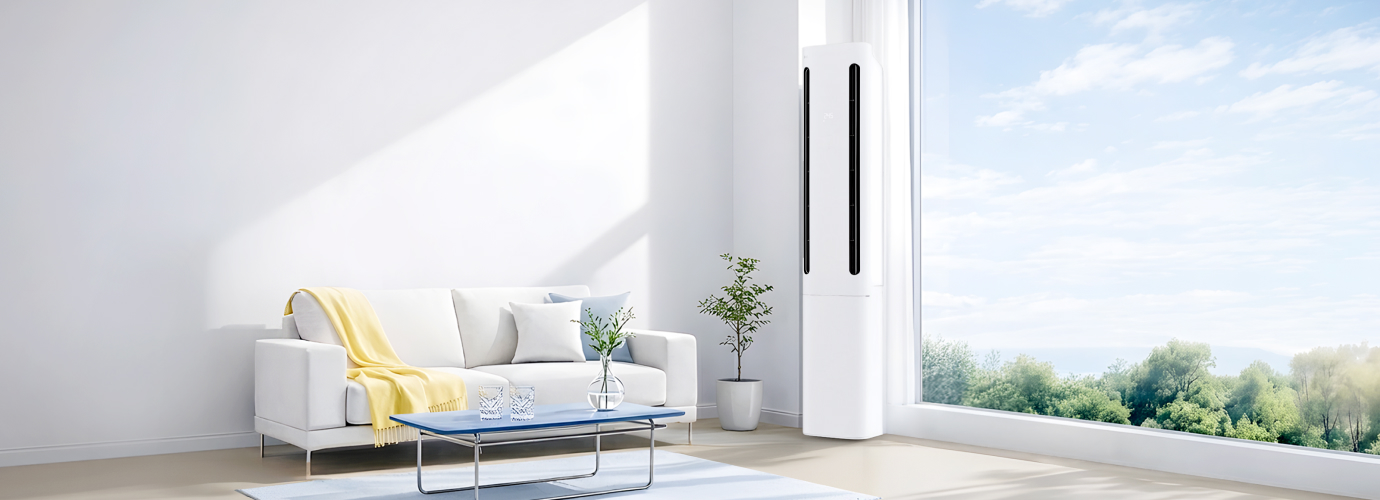
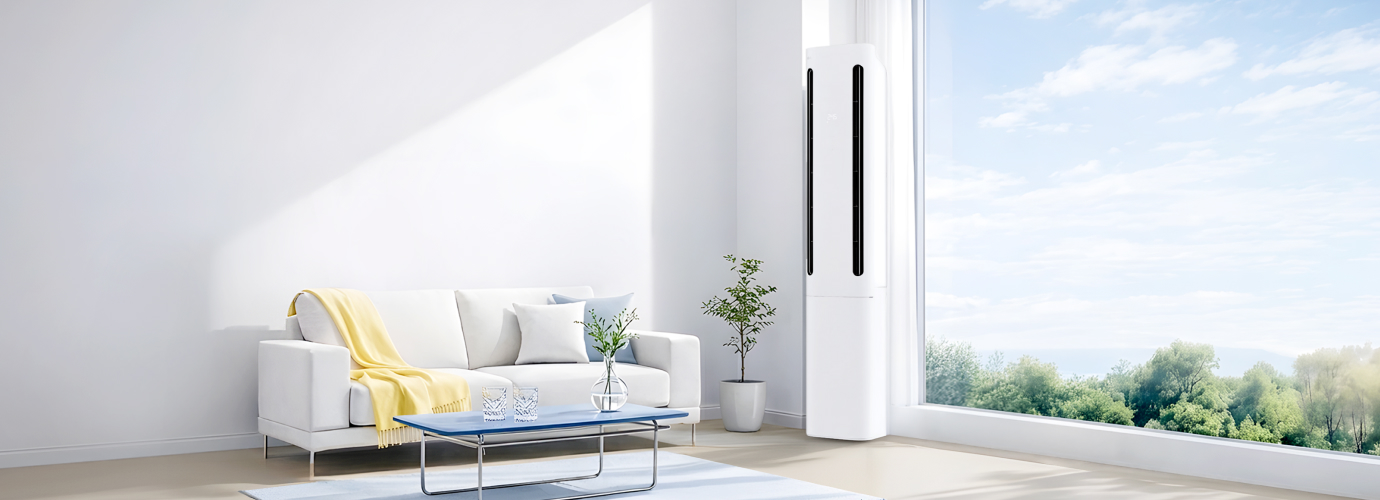
필터관리 수정

diff --git a/kr/story/user-guide/air-conditioner-filter-maintenance.html b/kr/story/user-guide/air-conditioner-filter-maintenance.html
@@ -3,14 +3,27 @@
 
 <head>
     <meta charset="UTF-8">
-    <meta name="viewport" content="width=device-width, initial-scale=1.0">
+    <meta name="viewport"
+        content="width=device-width,initial-scale=1.0,minimum-scale=1.0,maximum-scale=1.0,user-scalable=no" />
+    <meta name="keywords" content="에어컨 필터, 에어컨 필터 청소, 에어컨 필터 교체, 극세필터, 공기청정필터, 에어컨 관리, 에어컨 청소, 에어컨 냄새, LG 에어컨, LG전자" />
+    <meta name="description"
+        content="에어컨 성능과 위생을 위한 필수 체크! 극세 필터 물세척 방법부터 공기 청정 필터 교체 주기, 에어컨 내부 건조 팁까지 올바른 에어컨 필터 관리법을 확인해 보세요." />
+    <meta content="NOODP, NOYDIR" name="robots" />
+
+    <meta property="og:locale" content="ko_KR" />
+    <meta property="og:site_name" content="LG전자" />
+    <meta property="og:type" content="website" />
+    <meta property="og:title" content="에어컨 필터 관리 가이드 | LG전자" />
+    <meta property="og:description"
+        content="에어컨 성능과 위생을 위한 필수 체크! 극세 필터 물세척 방법부터 공기 청정 필터 교체 주기, 에어컨 내부 건조 팁까지 올바른 에어컨 필터 관리법을 확인해 보세요." />
+    <meta property="og:url" content="https://www.lge.co.kr/story/user-guide/air-conditioner-filter-maintenance" />
+    <meta property="og:image" content="https://www.lge.co.kr/lg5-common/images/common/share/share-default.jpg" />
+
     <link rel="stylesheet" href="https://www.lge.co.kr/lg5-common/css/reset.min.css" />
     <link rel="stylesheet" href="https://www.lge.co.kr/lg5-common/css/app.min.css" />
     <link rel="stylesheet" as="style" crossorigin
         href="https://cdn.jsdelivr.net/gh/orioncactus/pretendard@v1.3.9/dist/web/static/pretendard-dynamic-subset.css" />
-    <title>에어컨 필터 관리</title>
-
-
+    <title>에어컨 필터 관리 가이드 | LG전자</title>
 </head>
 
 <body>

diff --git a/kr/story/user-guide/css/air-conditioner-filter-maintenance.css b/kr/story/user-guide/css/air-conditioner-filter-maintenance.css
@@ -212,8 +212,8 @@
   white-space: nowrap;
 }
 #gjw002 a.btn-black img.right-arrow {
-  width: 7px;
-  height: 14px;
+  width: 10px;
+  height: 20px;
   margin-left: 8px;
 }
 #gjw002 .btn-black:hover {
@@ -775,7 +775,7 @@
   }
 
   #gjw002 .sec-header {
-    padding-top: 40px;
+    padding-top: 1.5px;
     text-align: left;
   }
 